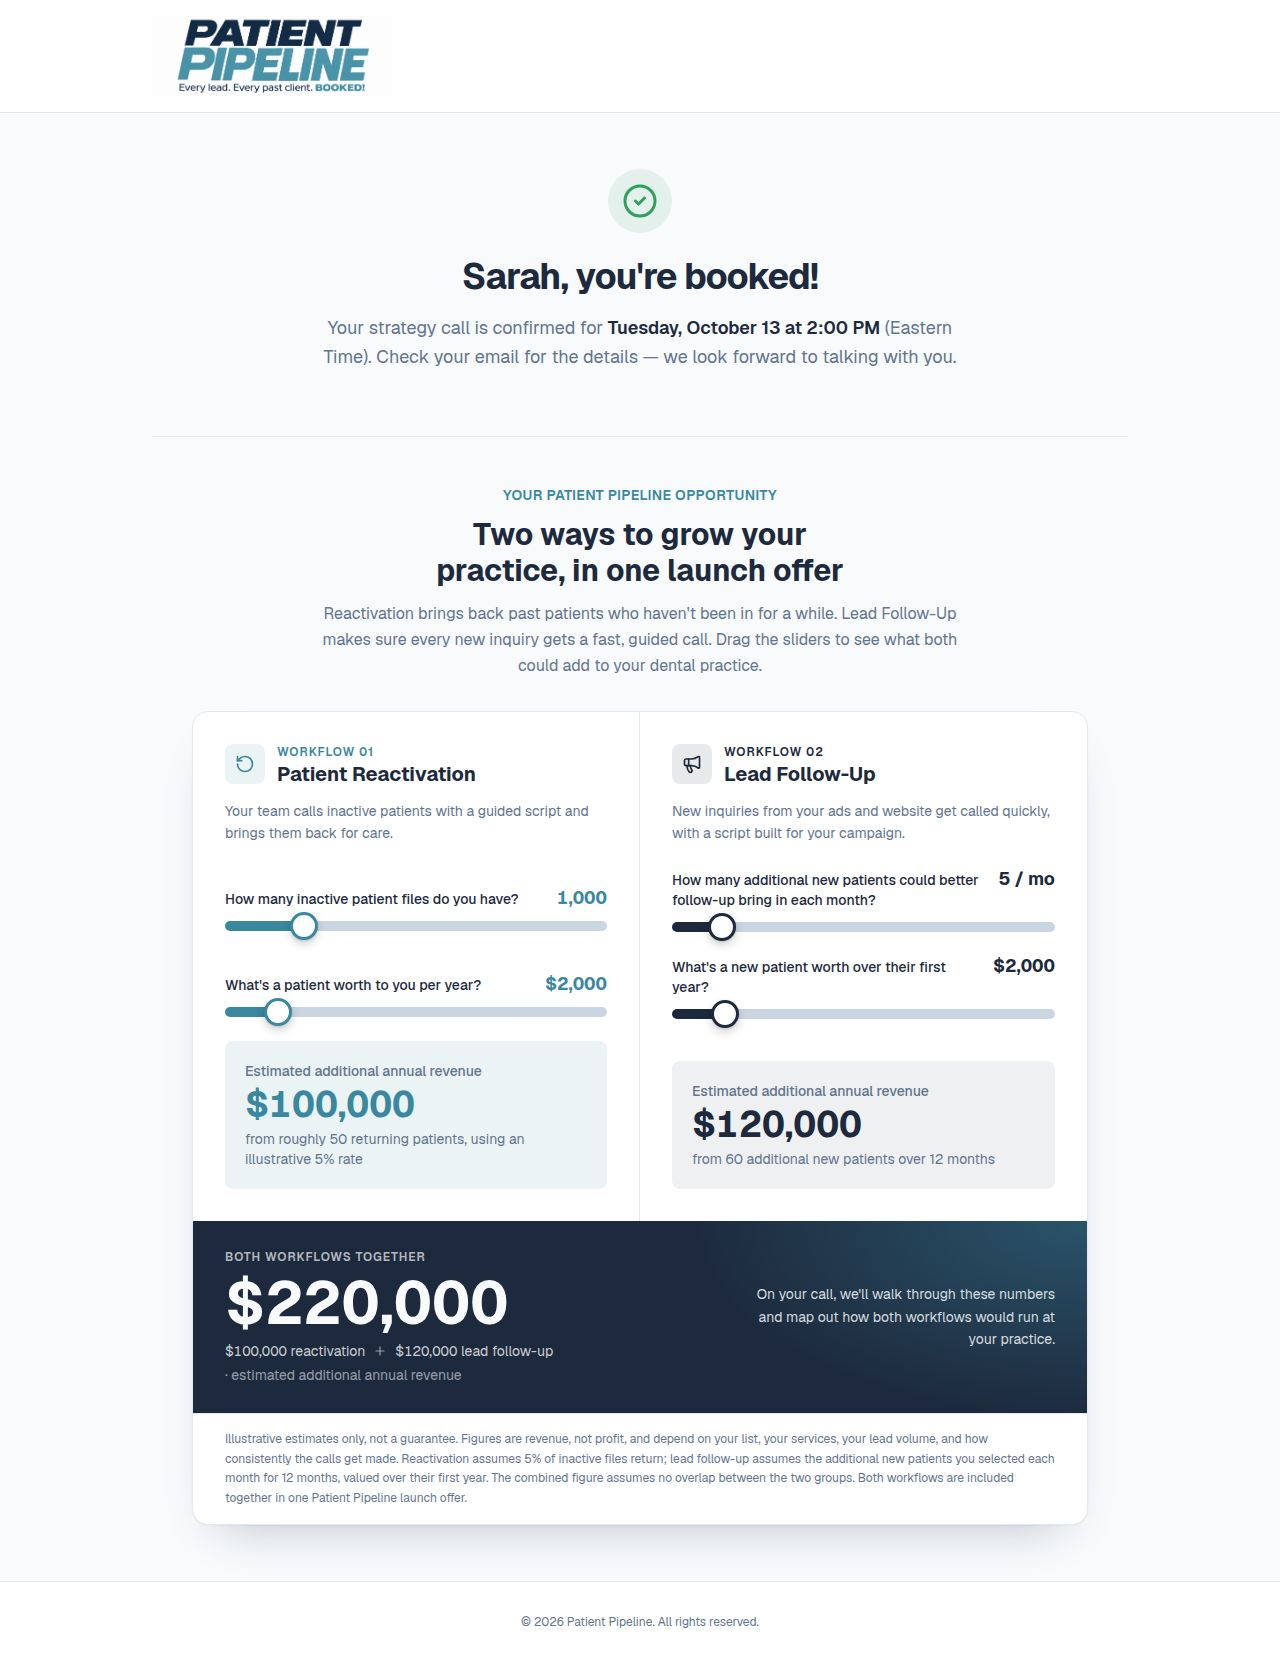
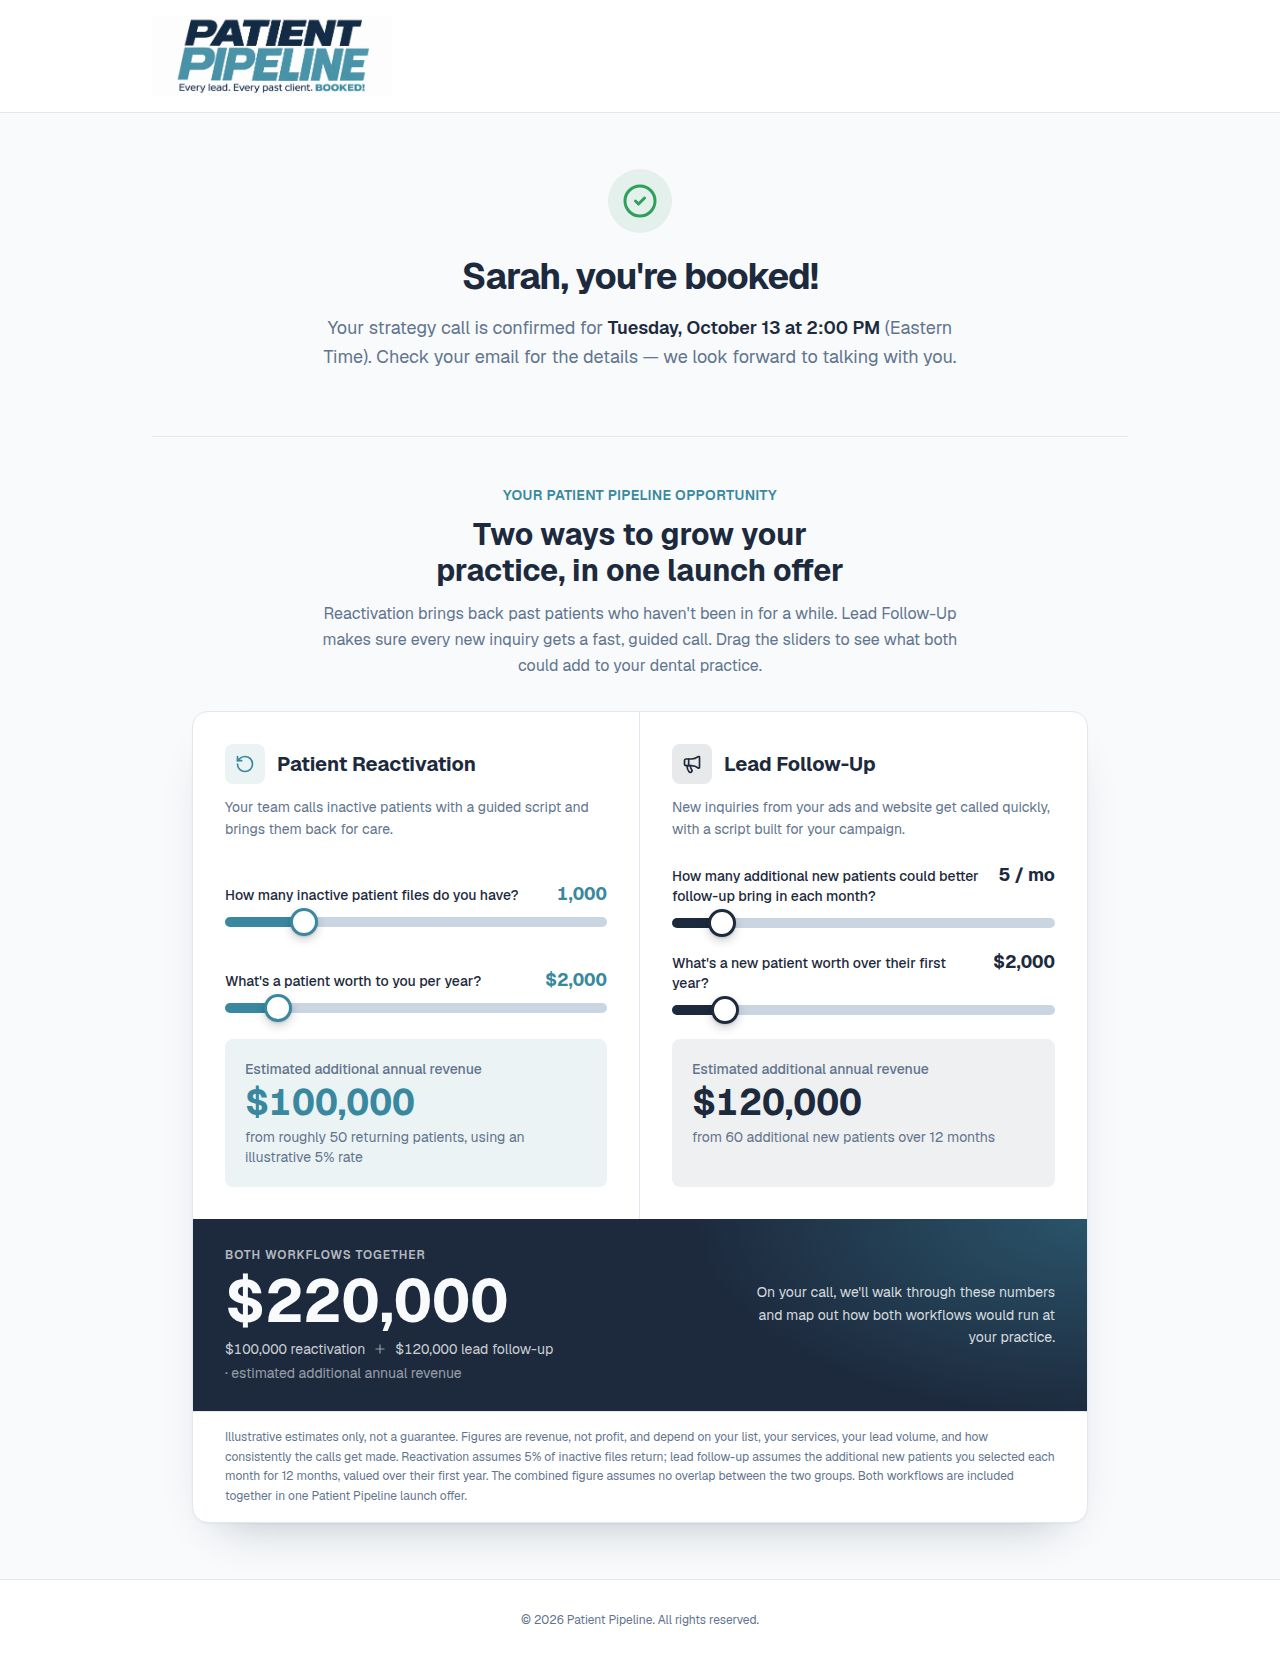
Update booking thank you component and metadata
Replit-Commit-Author: Agent

diff --git a/artifacts/mockup-sandbox/src/components/mockups/booking-thank-you/BothProducts.tsx b/artifacts/mockup-sandbox/src/components/mockups/booking-thank-you/BothProducts.tsx
@@ -38,16 +38,13 @@ function SliderField({ id, label, display, min, max, step, value, onChange, tone
   )
 }
 
-function HalfHeader({ icon: Icon, kicker, title, blurb, tone }: { icon: LucideIcon; kicker: string; title: string; blurb: string; tone: Tone }) {
+function HalfHeader({ icon: Icon, title, blurb, tone }: { icon: LucideIcon; title: string; blurb: string; tone: Tone }) {
   const color = tone === 'navy' ? 'text-primary' : 'text-accent'
   return (
     <div className="flex flex-col gap-3">
-      <div className="flex items-start gap-3">
+      <div className="flex items-center gap-3">
         <span className={`grid size-10 shrink-0 place-items-center rounded-lg ${tone === 'navy' ? 'bg-primary/10' : 'bg-accent/10'} ${color}`} aria-hidden="true"><Icon className="size-5" /></span>
-        <div className="flex flex-col">
-          <p className={`text-xs font-semibold uppercase tracking-[0.08em] ${color}`}>{kicker}</p>
-          <h3 className="text-lg font-bold text-foreground md:text-xl">{title}</h3>
-        </div>
+        <h3 className="text-lg font-bold text-foreground md:text-xl">{title}</h3>
       </div>
       <p className="text-sm leading-relaxed text-muted-foreground">{blurb}</p>
     </div>
@@ -120,7 +117,7 @@ function CombinedOpportunity() {
         <div className="w-full overflow-hidden rounded-2xl border border-border bg-card text-left shadow-[0_1px_2px_rgb(15_23_42/.04),0_24px_48px_-28px_rgb(15_23_42/.3)]">
           <div className="grid grid-cols-1 lg:grid-cols-2">
             <div className="flex flex-col gap-6 border-b border-border p-6 md:p-8 lg:border-b-0 lg:border-r">
-              <HalfHeader icon={RotateCcw} kicker="Workflow 01" title="Patient Reactivation" tone="accent"
+              <HalfHeader icon={RotateCcw} title="Patient Reactivation" tone="accent"
                 blurb="Your team calls inactive patients with a guided script and brings them back for care." />
               <SliderField id="bty-inactive" label="How many inactive patient files do you have?"
                 display={`${inactiveCount.toLocaleString('en-US')}${inactiveCount >= INACTIVE_MAX ? '+' : ''}`}
@@ -130,11 +127,11 @@ function CombinedOpportunity() {
               <div className="mt-auto flex flex-col gap-1 rounded-lg bg-accent/10 px-5 py-5">
                 <p className="text-sm font-medium text-muted-foreground">Estimated additional annual revenue</p>
                 <p className="text-3xl font-bold tabular-nums text-accent md:text-4xl" aria-live="polite">{formatMoney(reactivationRevenue)}</p>
-                <p className="text-sm text-muted-foreground">from roughly {reactivated.toLocaleString('en-US')} returning patients, using an illustrative 5% rate</p>
+                <p className="min-h-10 text-sm text-muted-foreground">from roughly {reactivated.toLocaleString('en-US')} returning patients, using an illustrative 5% rate</p>
               </div>
             </div>
             <div className="flex flex-col gap-6 p-6 md:p-8">
-              <HalfHeader icon={Megaphone} kicker="Workflow 02" title="Lead Follow-Up" tone="navy"
+              <HalfHeader icon={Megaphone} title="Lead Follow-Up" tone="navy"
                 blurb="New inquiries from your ads and website get called quickly, with a script built for your campaign." />
               <SliderField id="bty-leads" label="How many additional new patients could better follow-up bring in each month?"
                 display={`${leadsPerMonth}${leadsPerMonth >= LEADS_MAX ? '+' : ''} / mo`}
@@ -144,7 +141,7 @@ function CombinedOpportunity() {
               <div className="mt-auto flex flex-col gap-1 rounded-lg bg-primary/[0.07] px-5 py-5">
                 <p className="text-sm font-medium text-muted-foreground">Estimated additional annual revenue</p>
                 <p className="text-3xl font-bold tabular-nums text-primary md:text-4xl" aria-live="polite">{formatMoney(leadRevenue)}</p>
-                <p className="text-sm text-muted-foreground">from {leadPatientsPerYear.toLocaleString('en-US')} additional new patients over 12 months</p>
+                <p className="min-h-10 text-sm text-muted-foreground">from {leadPatientsPerYear.toLocaleString('en-US')} additional new patients over 12 months</p>
               </div>
             </div>
           </div>
